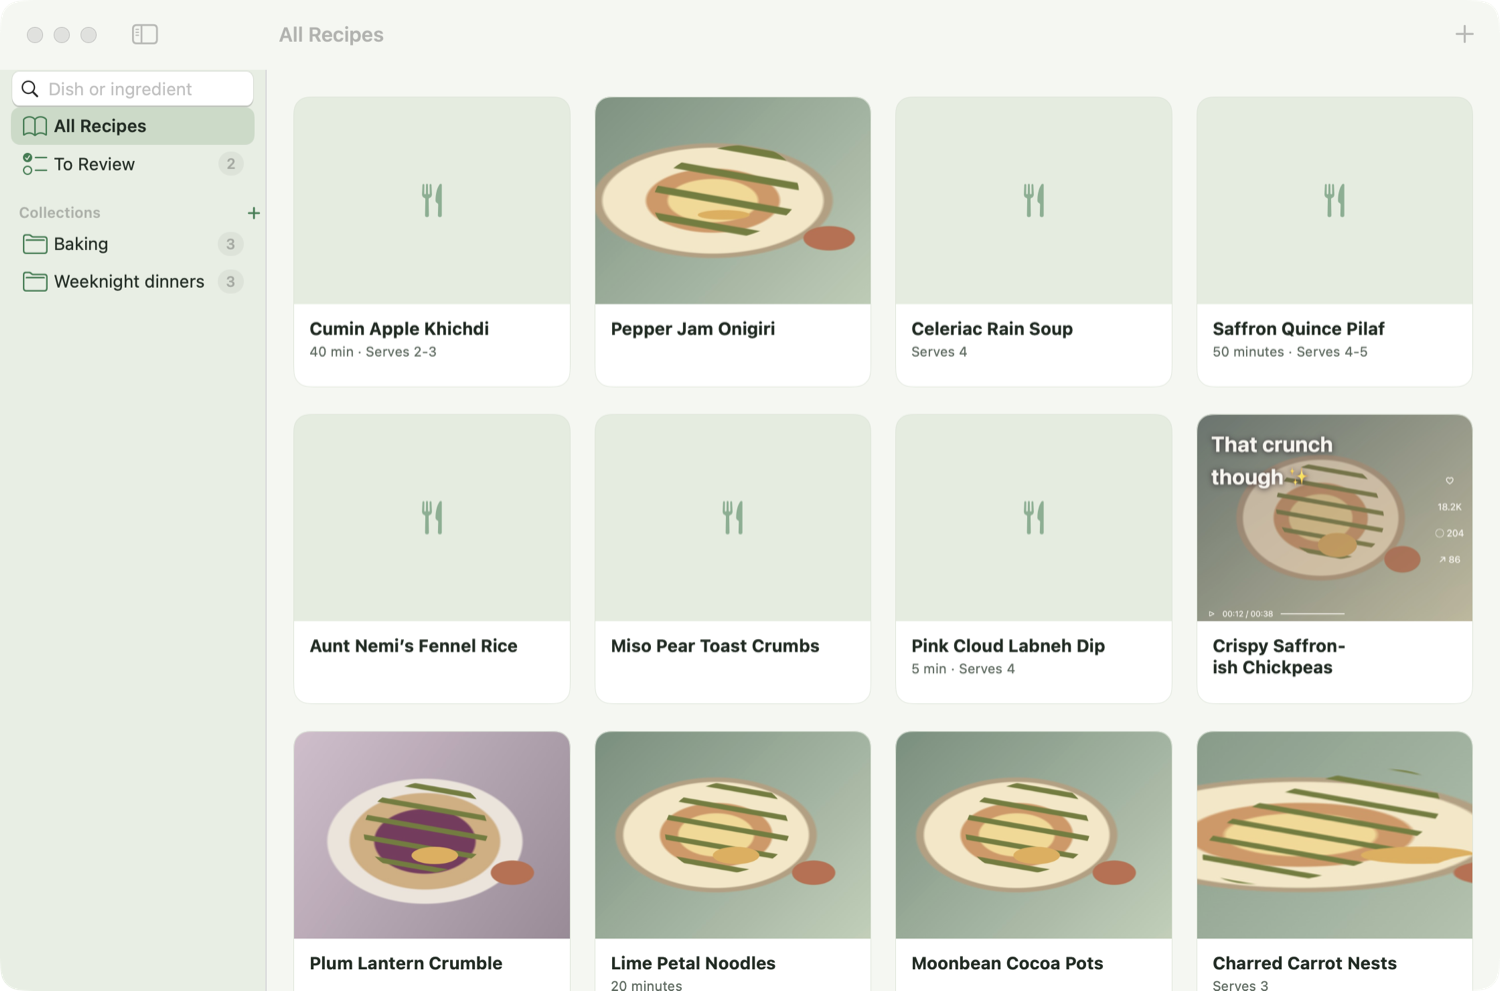
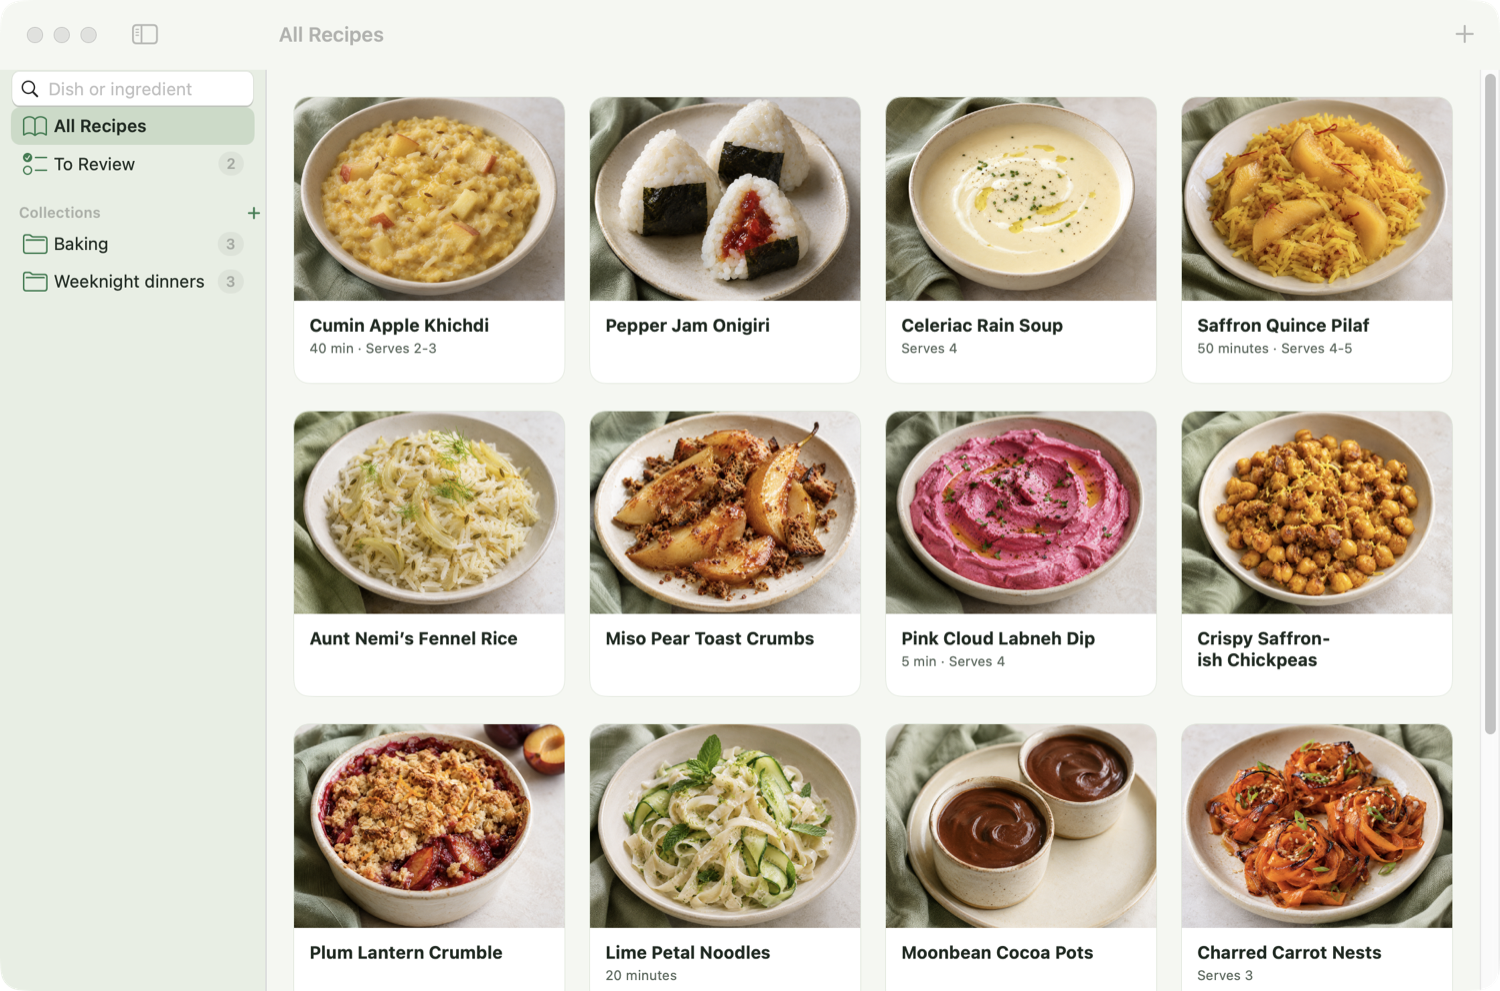
docs: add the model comparison and refresh the screenshots

diff --git a/README.md b/README.md
@@ -42,7 +42,7 @@ Free, powered by local AI, and everything stays on your Mac.</p>
   <img src="docs/screenshots/dark.png" width="70%" alt="The cookbook in dark mode">
 </p>
 
-<p align="center"><sub>The recipes and food illustrations shown are invented for testing.</sub></p>
+<p align="center"><sub>The recipes shown are invented for testing, and their food photos are AI-generated.</sub></p>
 
 ## Install Zendish
 
@@ -147,15 +147,40 @@ The app is ad-hoc signed rather than notarised, because notarising needs a paid 
 
 ## Evaluation
 
-These results come from one Mac, a 16 GB M3 MacBook Air, using `qwen3.5:9b`.
+All results come from one Mac, a 16 GB M3 MacBook Air, using macOS text recognition followed by each model. Cards were scored before Zendish's plain-code checks, so these numbers show the models on their own.
 
-| Test set | Result |
-|---|---|
-| 20 invented recipe pages | 18 cards right, and 2 wrong because of one misread quantity pattern |
-| 10 real recipe websites | 7 cards correct apart from the title, 1 needing lines tidied, and 2 with a misread quantity |
-| Time per card | About 14 seconds on invented pages, and about 25 seconds on real pages, with the slowest at 60 |
+**Choosing a model**
 
-The sets are small and most results were checked by a script, so this is a regression check rather than a benchmark. Social media screenshots and photos of cookbooks haven't been measured yet. The 20 invented cases are included in the tests.
+Each model was tested on the same 20 invented recipe pages, including two images with no recipe.
+
+| Model | Right | Wrong | Typical time per card | Extra download |
+|---|---|---|---|---|
+| `llama3.2` | 15 | 4 | About 6 seconds | 2 GB |
+| Apple's on-device model | 16 | 4 | About 4 seconds | None |
+| `qwen3.5:9b` | 18 | 2 | About 14 seconds | 7.6 GB |
+| `gemma4:12b` | 19 | 1 | About 15 seconds | 7.7 GB |
+
+`qwen3.5:9b` and Apple's model were then tested on 10 real recipe websites, with each flagged card checked by hand. `gemma4:12b` wasn't part of this test.
+
+| Result on real pages | `qwen3.5:9b` | Apple's on-device model |
+|---|---|---|
+| Correct apart from the title | 7 | 4 |
+| Wrong times or servings | 0 | 4 |
+| Whole ingredient section dropped | 0 | 1 |
+| Typical time per card | About 25 seconds | About 6 seconds |
+| Slowest card | 60 seconds | 14 seconds |
+
+**Why `qwen3.5:9b`**
+
+It made fewer factual mistakes than Apple's model on real pages, and it gave identical cards across repeat runs. `gemma4:12b` scored one card higher, but only through an inconsistent guess, and it used more memory. Apple's model is much faster and needs no setup, which makes it a strong option for the future, but it needs Apple Intelligence turned on and it filled in wrong details more often.
+
+**The whole pipeline**
+
+A final run put all 30 test recipes through text recognition, `qwen3.5:9b` and the card checks. Both images with no recipe were rejected, every misread `1 1/2` was flagged, website logos were kept out of titles, and no ingredient was wrongly reported as missing.
+
+**Limits of these tests**
+
+The sets are small, and the invented pages are cleaner than real screenshots. Most results on invented pages were scored by a script. Social media screenshots from real apps, photos of cookbooks and handwritten recipes haven't been measured yet. The 20 invented cases are included in the tests.
 
 ## License
 

diff --git a/docs/DESIGN.md b/docs/DESIGN.md
@@ -26,6 +26,8 @@ Why Zendish is built the way it is. For how to install and use it, see the [READ
 | Cover photo chosen by hand | A drag is simple and always right, and there's no reliable way to find the food in every screenshot |
 | SQLite full-text search | Dish and ingredient names work well with word search, so no embedding model is needed |
 | The Fresh Herb theme | Research pointed to muted greens, soft neutrals and whitespace for health apps. Colour is used sparingly, so warm amber always means "check this" |
+| Step cards on the recipe page | Each step has its own card, which makes it easier to keep your place while cooking |
+| Amounts in their own column | Quantities are quick to scan, and the original text is never changed |
 | Theme colours kept in one place | Every colour has a light and dark value that meets WCAG AA contrast |
 | Models and storage kept out of the UI | Almost everything can be tested without opening a window |
 
